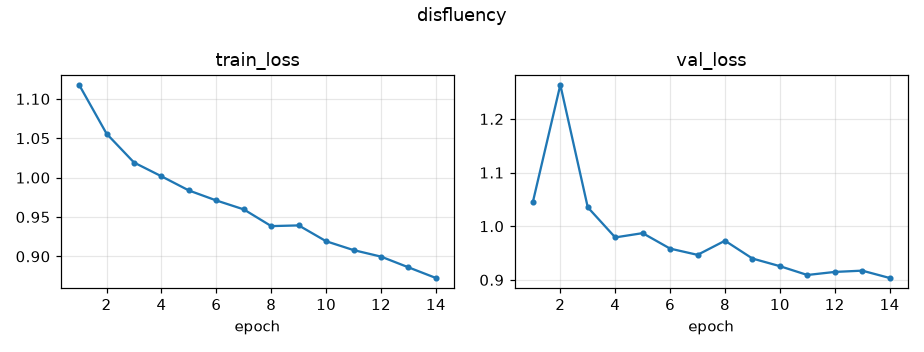
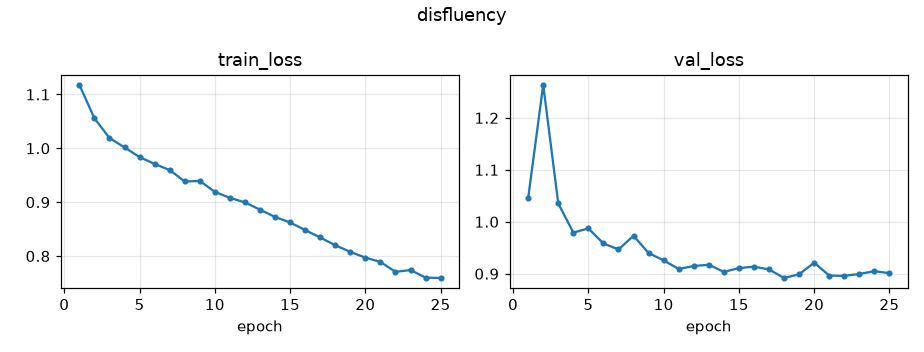
Disfluency CRNN: finish training to 25/25 epochs (macro F1 0.460 -> 0.467)
The resume after epoch 14 now loads past the old torchaudio front-end buffers. Filler F1 0.694, repetition 0.425,
prolongation 0.446, block 0.303 on the episode-split SEP-28k test set.

diff --git a/docs/model_cards/disfluency.md b/docs/model_cards/disfluency.md
@@ -1,6 +1,6 @@
 # Model card: Disfluency CRNN
 
-_Generated 2026-10-25 by the training/evaluation scripts. Trained from random initialisation; no pre-trained weights._
+_Generated 2026-11-18 by the training/evaluation scripts. Trained from random initialisation; no pre-trained weights._
 
 ## Task
 
@@ -22,10 +22,10 @@ SEP-28k (podcast clips, label present when >= 2 of 3 annotators marked it), spli
 
 | | |
 | --- | --- |
-| filler F1 / AUC | 0.6804 / 0.8667 (always-yes F1 0.3966) |
-| repetition F1 / AUC | 0.4033 / 0.7019 (always-yes F1 0.337) |
-| prolongation F1 / AUC | 0.4618 / 0.8521 (always-yes F1 0.1728) |
-| block F1 / AUC | 0.293 / 0.6723 (always-yes F1 0.2135) |
+| filler F1 / AUC | 0.6935 / 0.8784 (always-yes F1 0.3966) |
+| repetition F1 / AUC | 0.4253 / 0.7103 (always-yes F1 0.337) |
+| prolongation F1 / AUC | 0.4463 / 0.856 (always-yes F1 0.1728) |
+| block F1 / AUC | 0.3034 / 0.6791 (always-yes F1 0.2135) |
 
 ## Limitations
 
